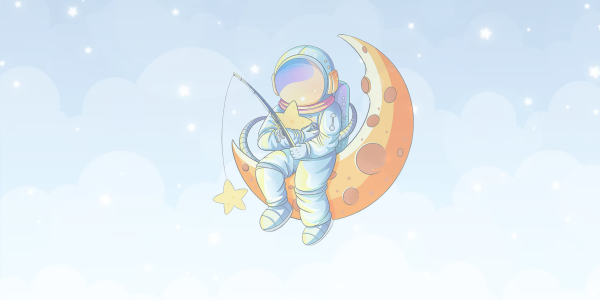
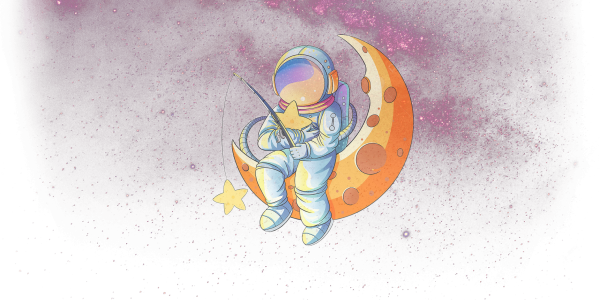
fix: cosmos win background

diff --git a/src/styles/var.scss b/src/styles/var.scss
@@ -20,7 +20,6 @@
     --background-player-2: linear-gradient(180deg, #64EA4E 0%, rgb(100 234 78 / 0%) 100%);
     --color-player-3: #EADA4E;
     --background-player-3: linear-gradient(0deg, #EADA4E 0%, rgb(234 218 78 / 0%) 100%);
-
     --win-background: url("/win-background.png");
 }
 
@@ -46,7 +45,6 @@
     --background-player-2: linear-gradient(180deg, #59A74D 0.25%, #000 99.74%);
     --color-player-3: #FFF27B;
     --background-player-3: linear-gradient(0deg, #C4B52F 0%, #000 100%);
-
     --win-background: url("/win-background.png");
 }
 
@@ -72,6 +70,5 @@
     --background-player-2: url("/background/green-planet.png");
     --color-player-3: #FFF27B;
     --background-player-3: url("/background/yellow-planet.png");
-
     --win-background: url("/cosmos-win-background.png");
 }

diff --git a/README.md b/README.md
@@ -30,6 +30,7 @@
 **Темы интерфейса:**
  - Светлая.
  - Темная.
+ - Космос.
 
 ~~Поиграть в~~ протестировать приложение можно [здесь](https://tatiana-polonskaya.github.io/tic-tac-toe/).
 
@@ -55,7 +56,7 @@
 - [x] Добавить stylelint.
 - [x] Добавить husky и precommit.
 - [x] Добавить выбор фигур для игроков.
-- [ ] Добавить космическую тему.
+- [x] Добавить космическую тему.
 - [ ] Оптимизировать рендер компонентов. 
 
 
